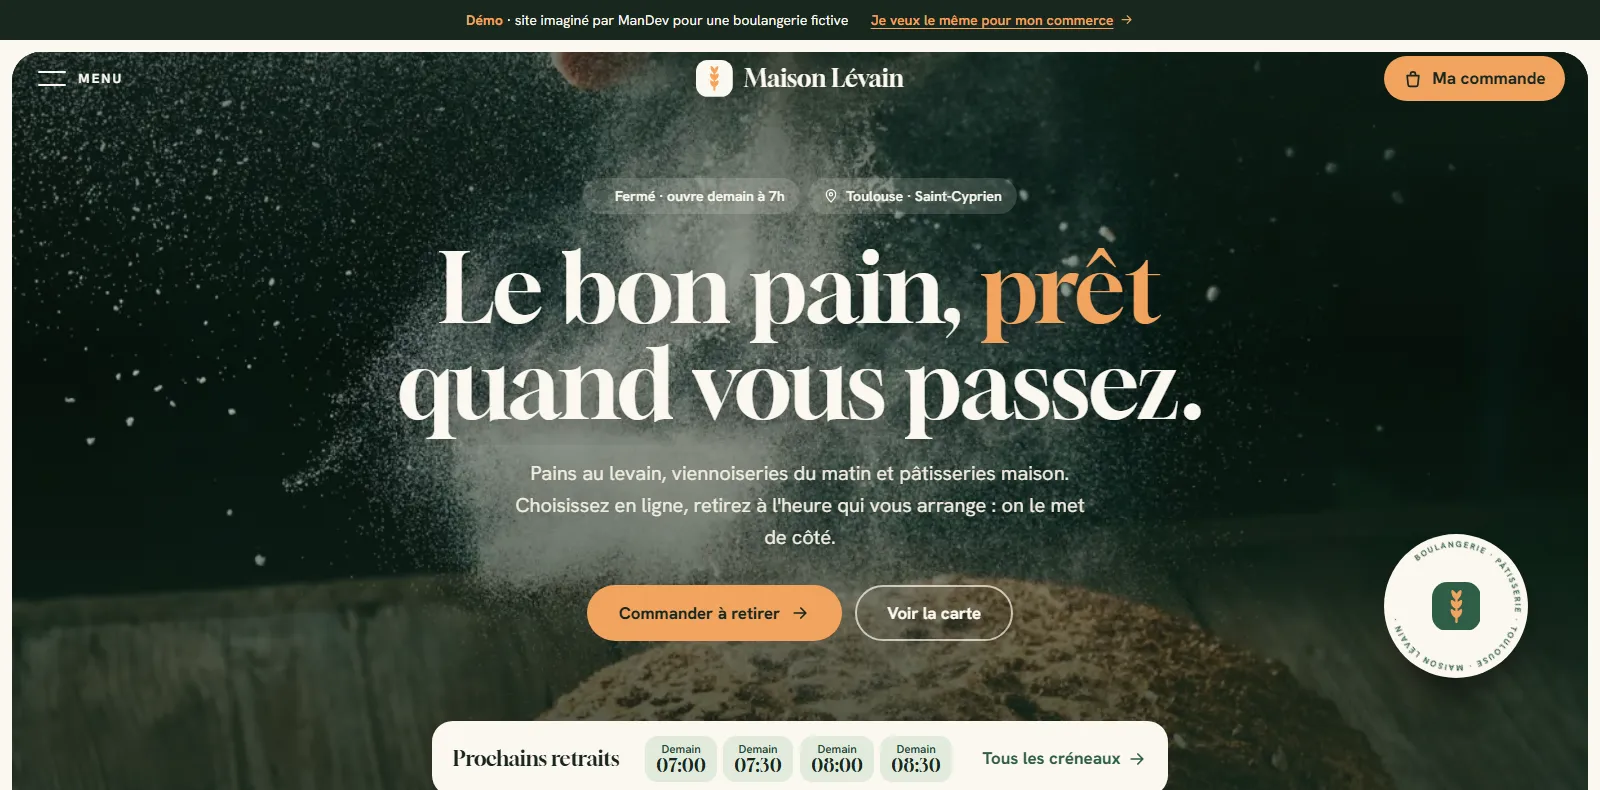
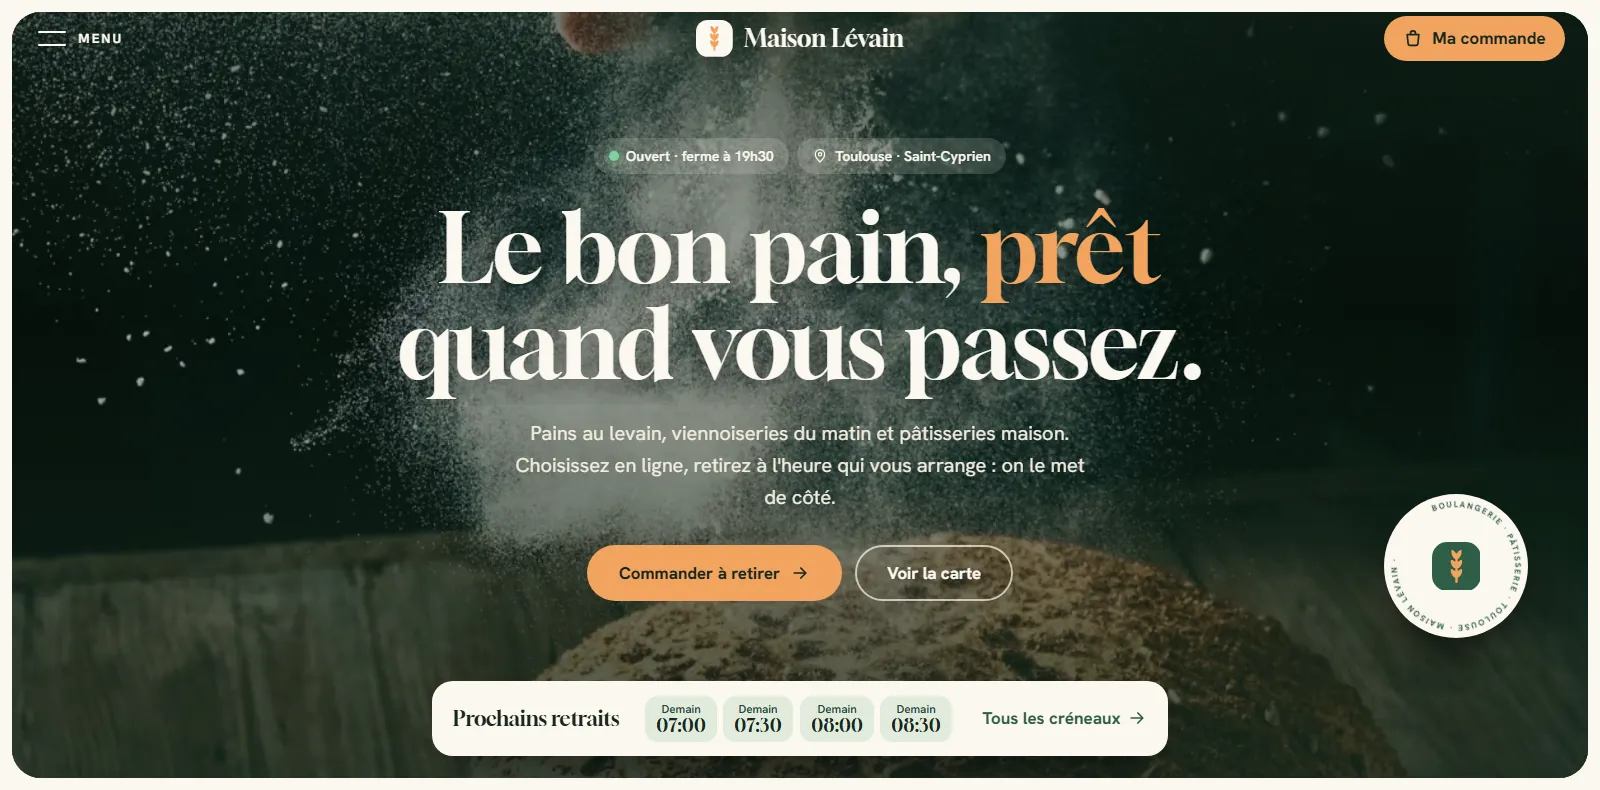
feat: démo plombier sur la page artisan du bâtiment, captures sans bandeau démo

diff --git a/frontend/src/data/metiers.js b/frontend/src/data/metiers.js
@@ -25,7 +25,7 @@ export const METIERS = [
   {
     slug: "site-artisan-batiment",
     key: "artisan",
-    demo: null, // pas encore de site de démonstration pour ce métier : la section est masquée
+    demo: { name: "Garonne Plomberie Chauffage", url: "https://plombier.mandev.fr", image: "/main-plombier.webp" },
   },
   {
     slug: "site-garage",
